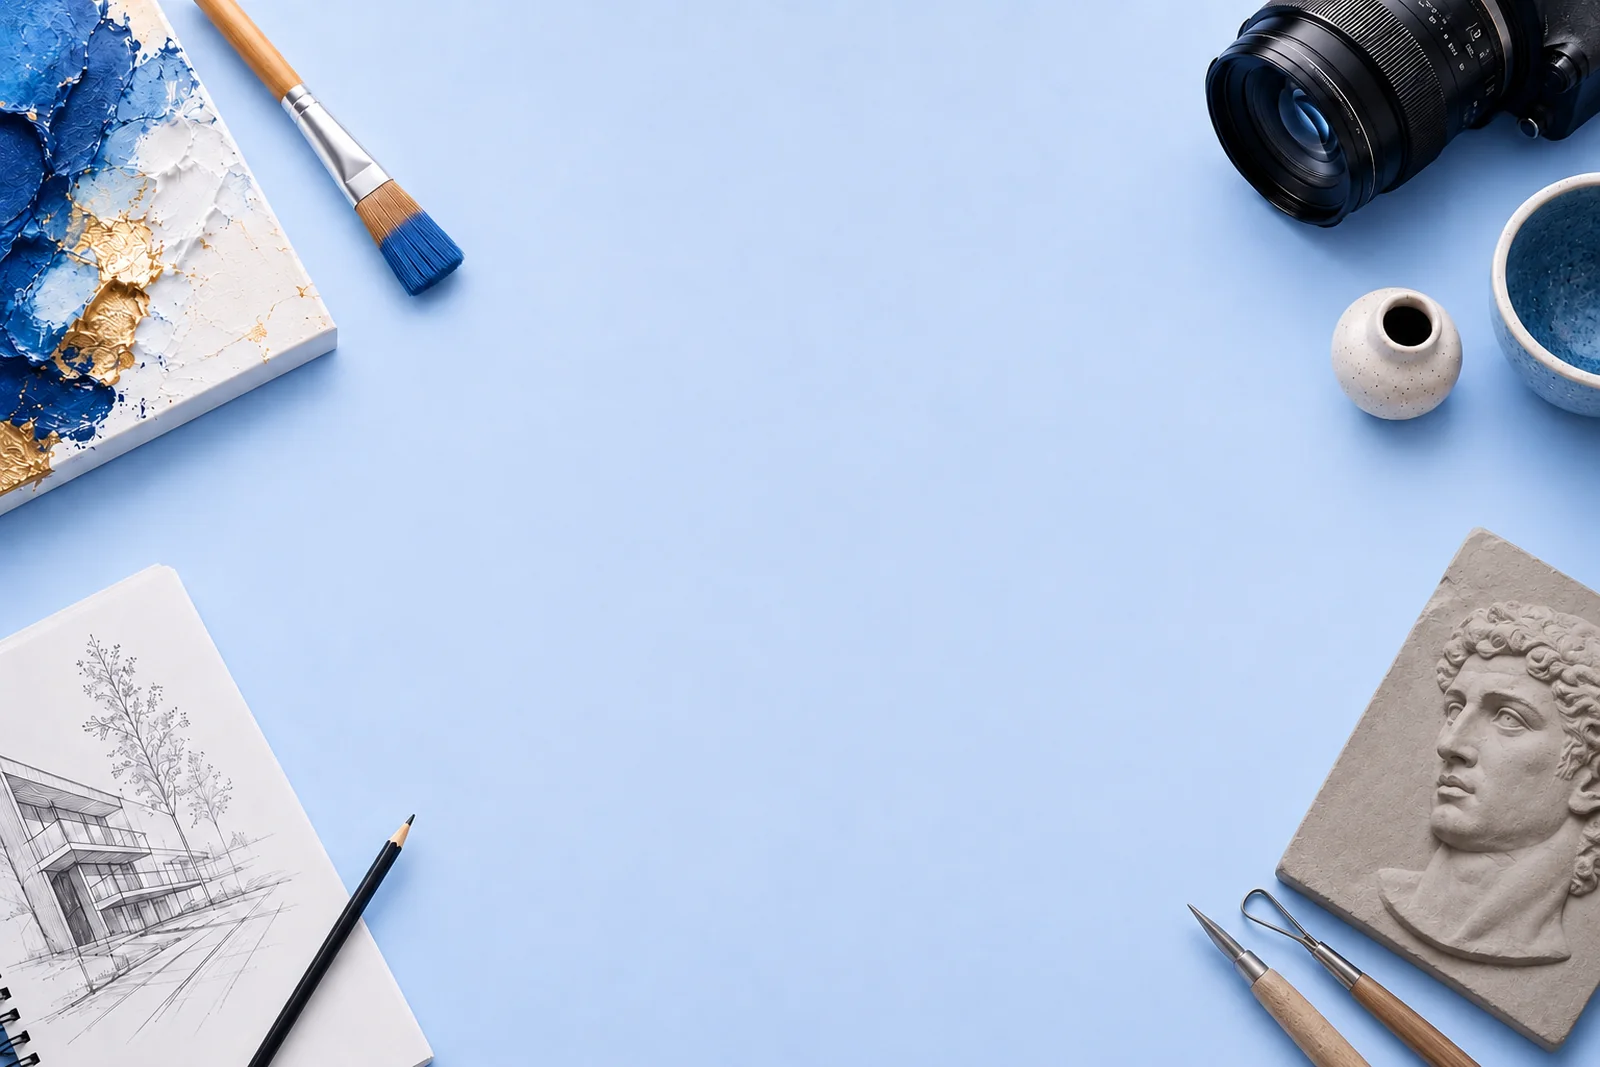
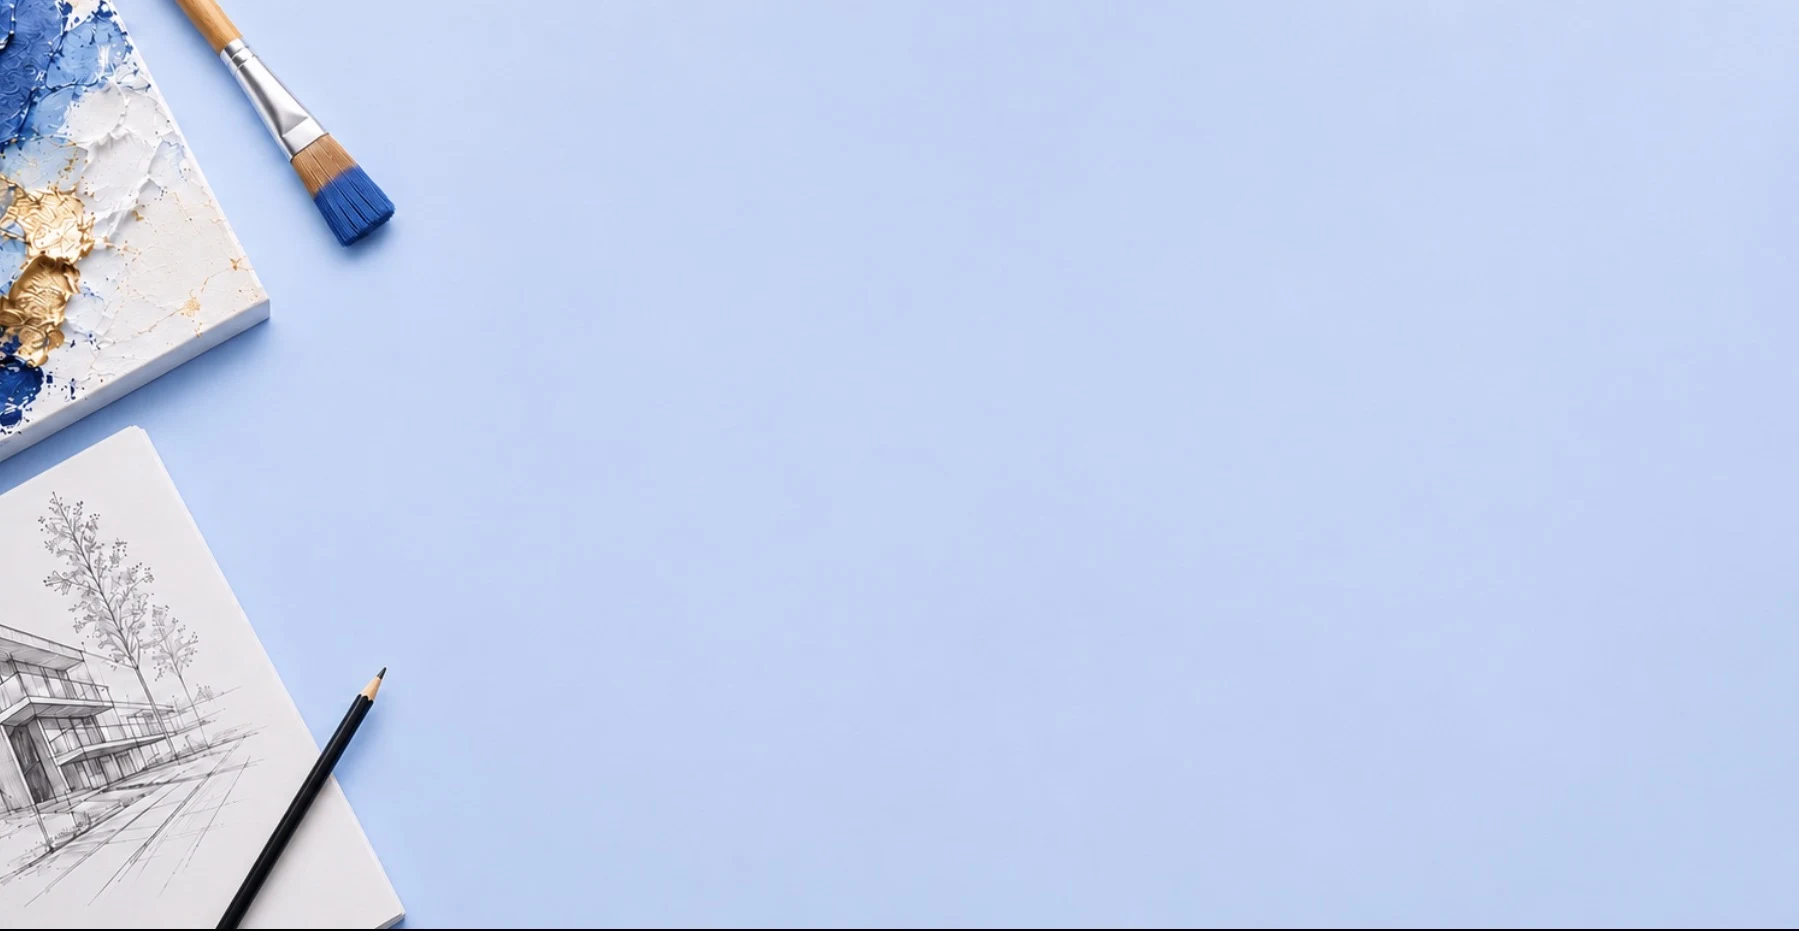
Add files via upload

diff --git a/src/app/[lang]/page.tsx b/src/app/[lang]/page.tsx
@@ -67,7 +67,7 @@ export default async function HomePage({
       {/* ---------- Hero ---------- */}
       <section
         className="relative bg-cover bg-center"
-        style={{ backgroundColor: "#c2d6f6", backgroundImage: "url('/images/hero.webp')" }}
+        style={{ backgroundColor: "#c5d4f3", backgroundImage: "url('/images/hero.webp')" }}
       >
         <div className="flex min-h-[380px] items-center justify-center py-16 sm:min-h-[440px] md:min-h-[520px]">
           <div